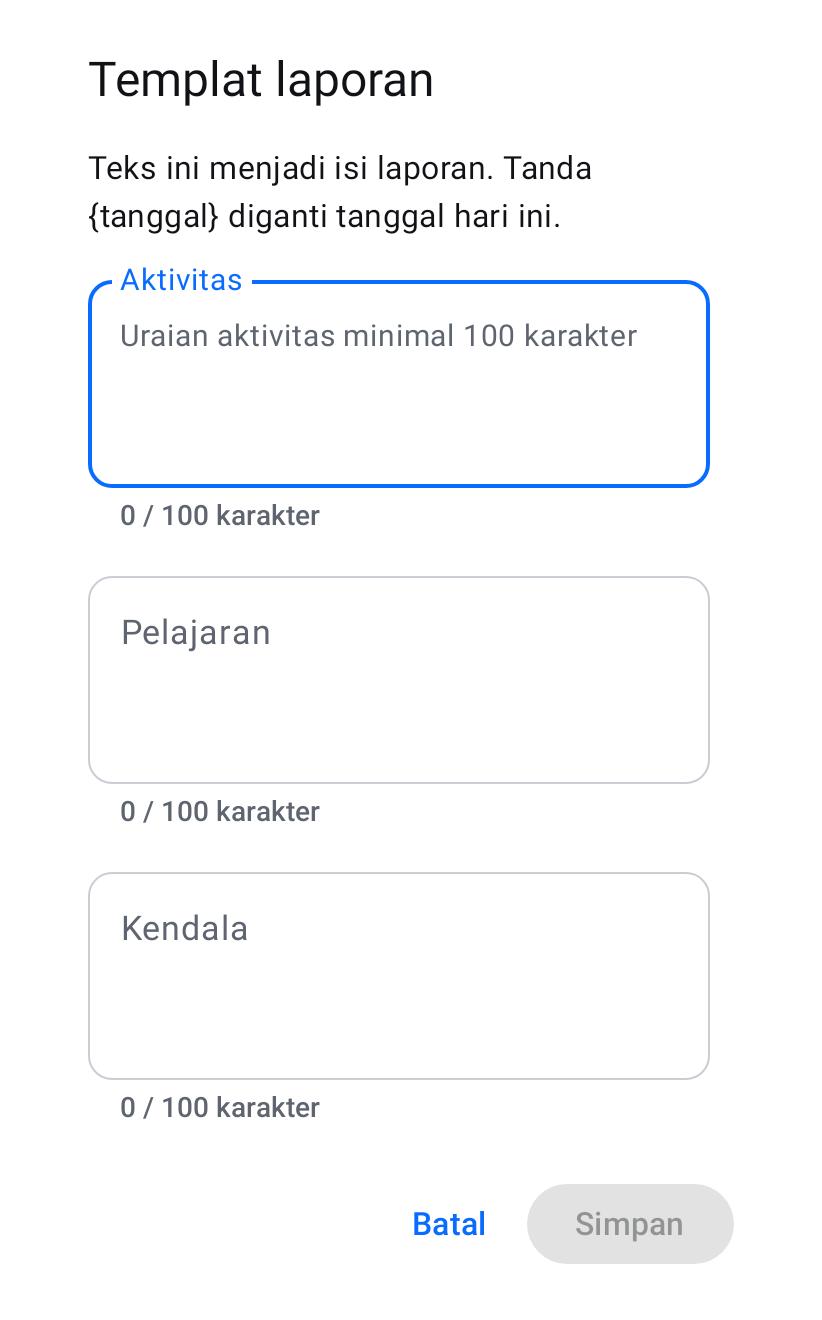
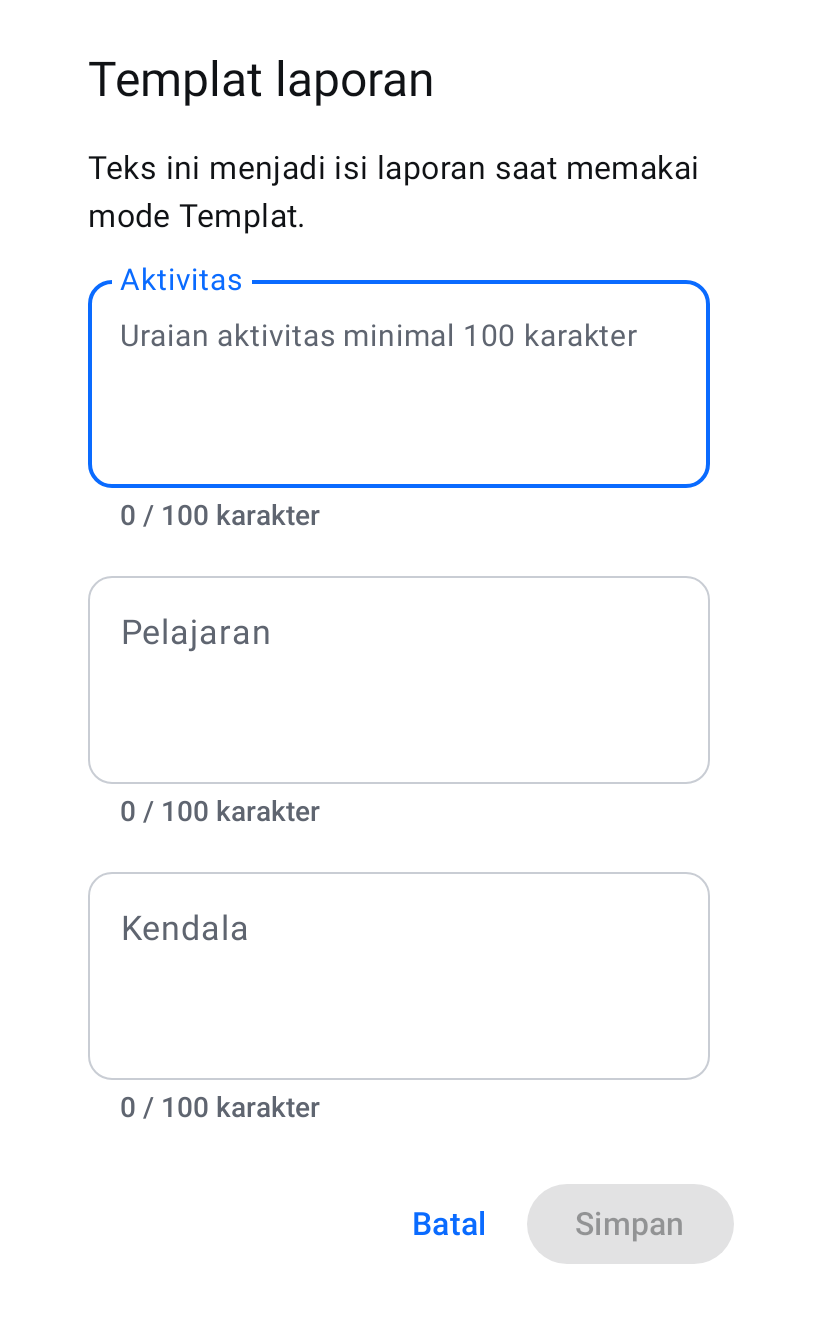
Enable Pengisian darurat in stable release and simplify template dialog copy

Changed region(s): [[0.0912, 0.0932, 0.8516, 0.1864]]

diff --git a/app/src/main/java/id/ohmymonev/android/ui/ScheduleTab.kt b/app/src/main/java/id/ohmymonev/android/ui/ScheduleTab.kt
@@ -55,7 +55,6 @@ import androidx.compose.ui.unit.sp
 import androidx.compose.material.icons.Icons
 import androidx.compose.material.icons.filled.Check
 import id.ohmymonev.android.data.AppStore
-import id.ohmymonev.android.BuildConfig
 import id.ohmymonev.android.data.ModelStore
 import id.ohmymonev.android.data.ModelTransferController
 import id.ohmymonev.android.data.SessionRepository
@@ -270,53 +269,34 @@ fun ScheduleTab(modifier: Modifier = Modifier) {
             editing = AlarmId.REMINDER
         }
 
-        if (BuildConfig.DEBUG) {
-            AlarmCard(
-                title = "Pengisian darurat",
-                time = current.escalationTime,
-                days = workingDays?.let { current.escalationDays intersect it } ?: current.escalationDays,
-                enabled = current.escalationEnabled,
-                controlsEnabled = ready && current.masterEnabled && !modelBusy,
-                effective = ready && current.escalationEnabled && current.masterEnabled,
-                paused = !ready && current.masterEnabled && current.escalationEnabled,
-                detail = when (current.escalationSource) {
-                    ScheduleSettings.ContentSource.TEMPLATE ->
-                        "Terpicu pada jam terjadwal bila laporan belum terkirim. Isian memakai templat Anda."
-                    ScheduleSettings.ContentSource.AUTOMATIC ->
-                        "Terpicu pada jam terjadwal bila belum terkirim. Isian melanjutkan laporan hari kerja sebelumnya (eksperimental)."
-                },
-                actionLabel = if (modelReady) "Hapus file otomatis" else null,
-                actionEnabled = ready && !modelBusy,
-                showActionWhenInactive = true,
-                onAction = { confirmModelDelete = true },
-                errorText = modelDeleteError,
-                onToggle = { on ->
-                    if (!on) save { it.copy(escalationEnabled = false) }
-                    else if (current.escalationSource == ScheduleSettings.ContentSource.AUTOMATIC && !modelReady ||
-                        current.escalationSource == ScheduleSettings.ContentSource.TEMPLATE && template == null
-                    ) editing = AlarmId.ESCALATION
-                    else pendingSubmit = { save { it.copy(escalationEnabled = true) } }
-                },
-            ) {
-                editing = AlarmId.ESCALATION
-            }
-        } else {
-            AlarmCard(
-                title = "Pengisian darurat",
-                time = current.escalationTime,
-                days = workingDays?.let { current.escalationDays intersect it } ?: current.escalationDays,
-                enabled = false,
-                controlsEnabled = false,
-                effective = false,
-                detail = "Pengisian darurat belum tersedia.",
-                actionLabel = if (modelReady) "Hapus file otomatis" else null,
-                actionEnabled = ready && !modelBusy,
-                showActionWhenInactive = true,
-                onAction = { confirmModelDelete = true },
-                errorText = modelDeleteError,
-                onToggle = {},
-                onOpen = {},
-            )
+        AlarmCard(
+            title = "Pengisian darurat",
+            time = current.escalationTime,
+            days = workingDays?.let { current.escalationDays intersect it } ?: current.escalationDays,
+            enabled = current.escalationEnabled,
+            controlsEnabled = ready && current.masterEnabled && !modelBusy,
+            effective = ready && current.escalationEnabled && current.masterEnabled,
+            paused = !ready && current.masterEnabled && current.escalationEnabled,
+            detail = when (current.escalationSource) {
+                ScheduleSettings.ContentSource.TEMPLATE ->
+                    "Terpicu pada jam terjadwal bila laporan belum terkirim. Isian memakai templat Anda."
+                ScheduleSettings.ContentSource.AUTOMATIC ->
+                    "Terpicu pada jam terjadwal bila belum terkirim. Isian melanjutkan laporan hari kerja sebelumnya (eksperimental)."
+            },
+            actionLabel = if (modelReady) "Hapus file otomatis" else null,
+            actionEnabled = ready && !modelBusy,
+            showActionWhenInactive = true,
+            onAction = { confirmModelDelete = true },
+            errorText = modelDeleteError,
+            onToggle = { on ->
+                if (!on) save { it.copy(escalationEnabled = false) }
+                else if (current.escalationSource == ScheduleSettings.ContentSource.AUTOMATIC && !modelReady ||
+                    current.escalationSource == ScheduleSettings.ContentSource.TEMPLATE && template == null
+                ) editing = AlarmId.ESCALATION
+                else pendingSubmit = { save { it.copy(escalationEnabled = true) } }
+            },
+        ) {
+            editing = AlarmId.ESCALATION
         }
 
         TemplateCard(
@@ -482,8 +462,7 @@ fun ScheduleTab(modifier: Modifier = Modifier) {
     if (ready && editingTemplate) {
         TemplateEditor(
             current = template,
-            clearBlocked = BuildConfig.DEBUG &&
-                current.escalationEnabled &&
+            clearBlocked = current.escalationEnabled &&
                 current.escalationSource == ScheduleSettings.ContentSource.TEMPLATE,
             onDismiss = { editingTemplate = false },
             onSave = { saved ->
@@ -724,7 +703,7 @@ internal fun TemplateEditor(
                 verticalArrangement = Arrangement.spacedBy(12.dp),
             ) {
                 Text(
-                    "Teks ini menjadi isi laporan. Tanda {tanggal} diganti tanggal hari ini.",
+                    "Teks ini menjadi isi laporan saat memakai mode Templat.",
                     style = MaterialTheme.typography.bodyMedium,
                     color = MaterialTheme.colorScheme.onSurface,
                 )

diff --git a/app/src/test/java/id/ohmymonev/android/schedule/AlarmSchedulerTest.kt b/app/src/test/java/id/ohmymonev/android/schedule/AlarmSchedulerTest.kt
@@ -57,8 +57,7 @@ class AlarmSchedulerTest {
         assertEquals(1, shadowOf(alarms).scheduledAlarms.size)
     }
 
-    @Test fun stableUpgradeCancelsEmergencyAndRejectsStaleTriggers() = kotlinx.coroutines.runBlocking {
-        org.junit.Assume.assumeFalse(id.ohmymonev.android.BuildConfig.DEBUG)
+    @Test fun disablingEmergencyCancelsScheduledAndRetryAlarms() = kotlinx.coroutines.runBlocking {
         AlarmScheduler.armAll(context, ScheduleSettings(escalationEnabled = true))
         for (code in listOf(21, 99)) {
             val intent = android.content.Intent(context, AutoFillReceiver::class.java)
@@ -67,8 +66,9 @@ class AlarmSchedulerTest {
             alarms.set(AlarmManager.RTC_WAKEUP, System.currentTimeMillis() + 120_000, pending)
         }
         assertEquals(4, shadowOf(alarms).scheduledAlarms.size)
-        val stable = TimeSettingsStore(context).settingsOnce()
-        assertEquals(listOf("reminder"), AlarmScheduler.armAll(context, stable).armedKeys)
+        val disabled = ScheduleSettings(escalationEnabled = false)
+        TimeSettingsStore(context).save(disabled)
+        assertEquals(listOf("reminder"), AlarmScheduler.armAll(context, disabled).armedKeys)
         assertEquals(1, shadowOf(alarms).scheduledAlarms.size)
         AutoFillReceiver().onReceive(context, android.content.Intent(AutoFillReceiver.ACTION_AUTOFILL))
         kotlinx.coroutines.runBlocking { ReceiverWork.awaitIdle() }
@@ -119,8 +119,7 @@ class AlarmSchedulerTest {
     }
 
 
-    @Test fun diagnosticsCanScheduleAndTriggerEmergency() = kotlinx.coroutines.runBlocking {
-        org.junit.Assume.assumeTrue(id.ohmymonev.android.BuildConfig.DEBUG)
+    @Test fun canScheduleAndTriggerEmergency() = kotlinx.coroutines.runBlocking {
         val store = TimeSettingsStore(context)
         store.save(ScheduleSettings(escalationEnabled = true))
         val settings = store.settingsOnce()
@@ -133,7 +132,6 @@ class AlarmSchedulerTest {
     }
 
     @Test fun scheduleRetryFallsBackCleanlyWhenExactAlarmPermissionMissing() = kotlinx.coroutines.runBlocking {
-        org.junit.Assume.assumeTrue(id.ohmymonev.android.BuildConfig.DEBUG)
         org.robolectric.shadows.ShadowAlarmManager.setCanScheduleExactAlarms(false)
         TimeSettingsStore(context).save(ScheduleSettings(escalationEnabled = true))
         val target = java.time.ZonedDateTime.now(id.ohmymonev.core.schedule.ScheduleCalculator.asiaJakarta).plusMinutes(5)
@@ -143,7 +141,6 @@ class AlarmSchedulerTest {
     }
 
     @Test fun escalationReceiverRearmsAlarmsAndAvoidsPrematureNotification() = kotlinx.coroutines.runBlocking {
-        org.junit.Assume.assumeTrue(id.ohmymonev.android.BuildConfig.DEBUG)
         val app = context.applicationContext as Application
         shadowOf(app).grantPermissions(android.Manifest.permission.POST_NOTIFICATIONS)
         TimeSettingsStore(context).save(ScheduleSettings(reminderEnabled = false, escalationEnabled = true))

diff --git a/app/src/main/java/id/ohmymonev/android/schedule/TimeSettingsStore.kt b/app/src/main/java/id/ohmymonev/android/schedule/TimeSettingsStore.kt
@@ -1,7 +1,6 @@
 package id.ohmymonev.android.schedule
 
 import android.content.Context
-import id.ohmymonev.android.BuildConfig
 import androidx.datastore.core.DataStore
 import androidx.datastore.preferences.core.Preferences
 import androidx.datastore.preferences.core.booleanPreferencesKey
@@ -55,7 +54,7 @@ class TimeSettingsStore internal constructor(private val dataStore: DataStore<Pr
             prefs[Keys.ESCALATION_SOURCE] = settings.escalationSource.name
             prefs[Keys.MASTER_ENABLED] = settings.masterEnabled
             prefs[Keys.REMINDER_ENABLED] = settings.reminderEnabled
-            prefs[Keys.ESCALATION_ENABLED] = BuildConfig.DEBUG && settings.escalationEnabled
+            prefs[Keys.ESCALATION_ENABLED] = settings.escalationEnabled
         }
     }
 
@@ -72,8 +71,7 @@ class TimeSettingsStore internal constructor(private val dataStore: DataStore<Pr
                 escalationSource = prefs[Keys.ESCALATION_SOURCE]?.toSourceOrNull() ?: DEFAULT.escalationSource,
                 masterEnabled = prefs[Keys.MASTER_ENABLED] ?: DEFAULT.masterEnabled,
                 reminderEnabled = prefs[Keys.REMINDER_ENABLED] ?: DEFAULT.reminderEnabled,
-                // Disable saved emergency settings in the stable release.
-                escalationEnabled = BuildConfig.DEBUG && (prefs[Keys.ESCALATION_ENABLED] ?: DEFAULT.escalationEnabled),
+                escalationEnabled = prefs[Keys.ESCALATION_ENABLED] ?: DEFAULT.escalationEnabled,
             )
         }
 

diff --git a/app/src/test/java/id/ohmymonev/android/UiRenderTest.kt b/app/src/test/java/id/ohmymonev/android/UiRenderTest.kt
@@ -445,18 +445,7 @@ class UiRenderTest {
     }
 
 
-    @Test fun stableEmergencyDisabledProof() {
-        org.junit.Assume.assumeFalse(id.ohmymonev.android.BuildConfig.DEBUG)
-        id.ohmymonev.android.schedule.readySession(ApplicationProvider.getApplicationContext<Context>())
-        capture("stable-emergency-disabled", "Pengisian darurat belum tersedia.") { ScheduleTab() }
-        compose.onNodeWithTag("alarm-toggle-Pengisian darurat").assertIsNotEnabled()
-        compose.onNodeWithTag("alarm-edit-Pengisian darurat").assertIsNotEnabled()
-        compose.onNodeWithTag("alarm-toggle-Pengingat").assertIsEnabled()
-    }
-
-
-    @Test fun diagnosticEmergencyEnabledControlsProof() {
-        org.junit.Assume.assumeTrue(id.ohmymonev.android.BuildConfig.DEBUG)
+    @Test fun emergencyEnabledControlsProof() {
         id.ohmymonev.android.schedule.readySession(ApplicationProvider.getApplicationContext<Context>())
         capture("diagnostic-emergency-controls", "Pengisian darurat") { ScheduleTab() }
         compose.onNodeWithTag("alarm-toggle-Pengisian darurat").assertIsEnabled()

diff --git a/app/src/test/java/id/ohmymonev/android/schedule/TimeSettingsStoreTest.kt b/app/src/test/java/id/ohmymonev/android/schedule/TimeSettingsStoreTest.kt
@@ -129,12 +129,12 @@ class TimeSettingsStoreTest {
         assertEquals(original, store.settingsOnce())
     }
 
-    @Test fun savedEmergencyIsEnabledOnlyInDiagnostics() = runBlocking {
+    @Test fun savedEmergencyIsPreservedAcrossBuilds() = runBlocking {
         preferences.edit {
             it[androidx.datastore.preferences.core.booleanPreferencesKey("escalation_enabled")] = true
         }
         val settings = store.settingsOnce()
-        assertEquals(id.ohmymonev.android.BuildConfig.DEBUG, settings.escalationEnabled)
+        assertTrue(settings.escalationEnabled)
         assertTrue(settings.reminderEnabled)
     }
 
